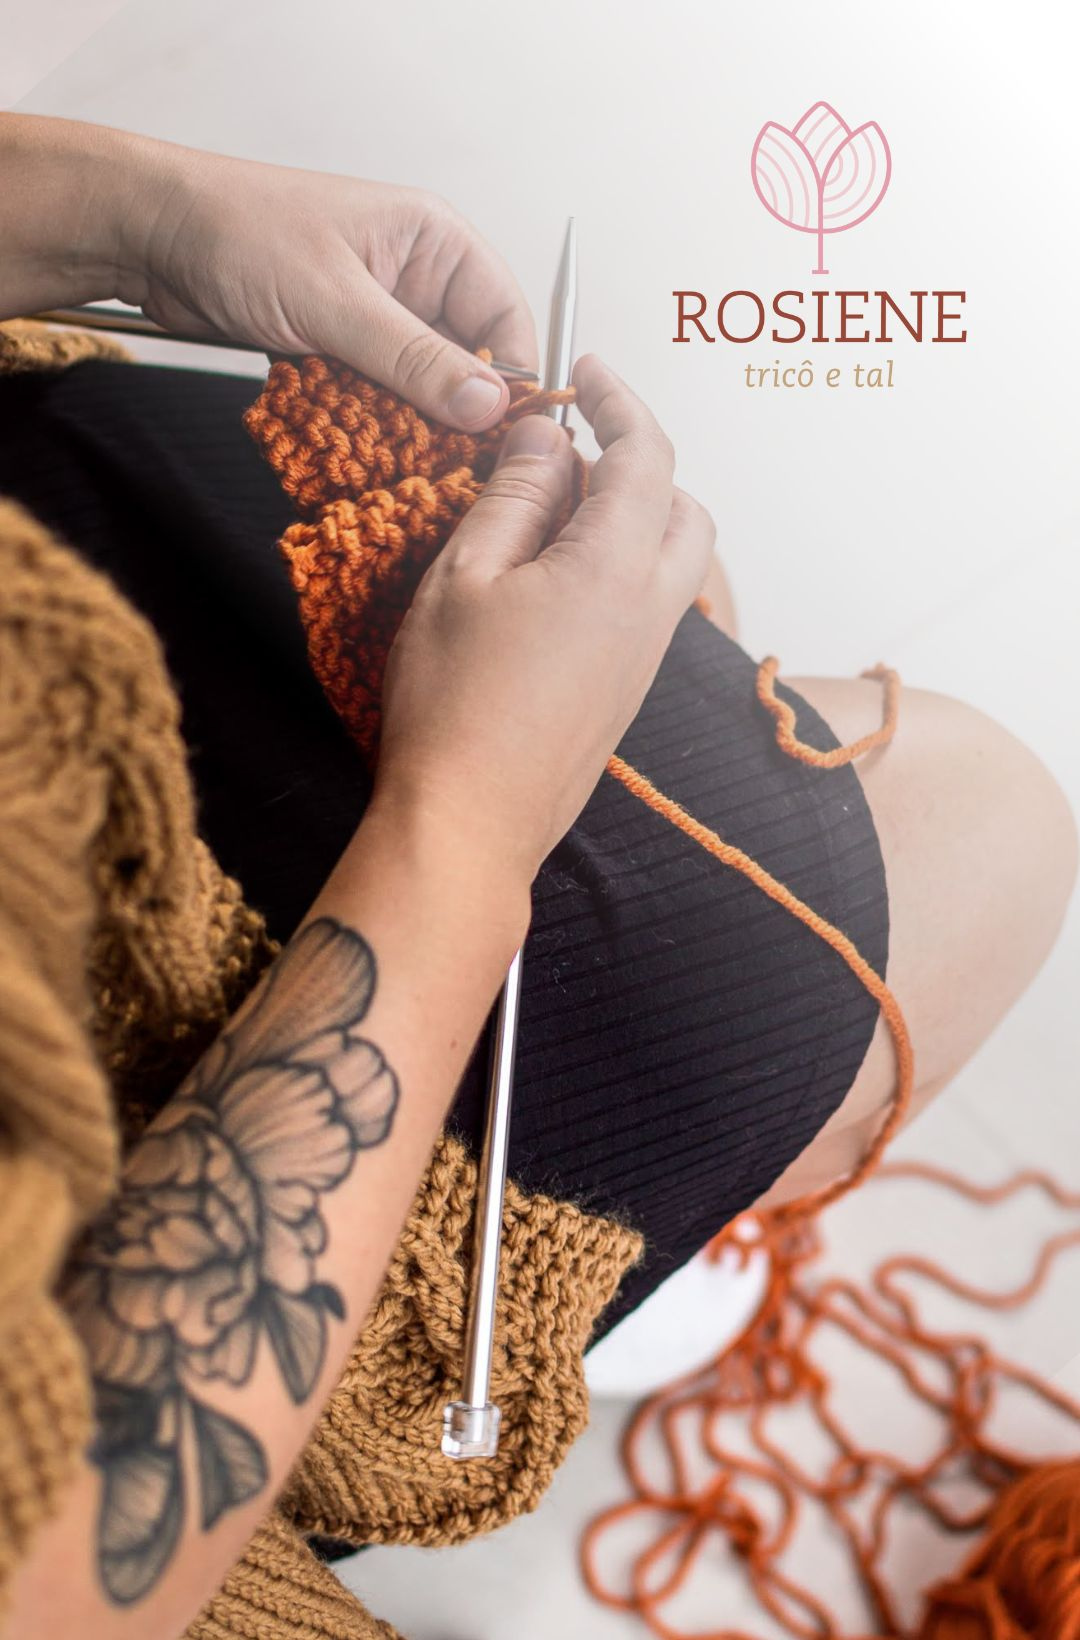
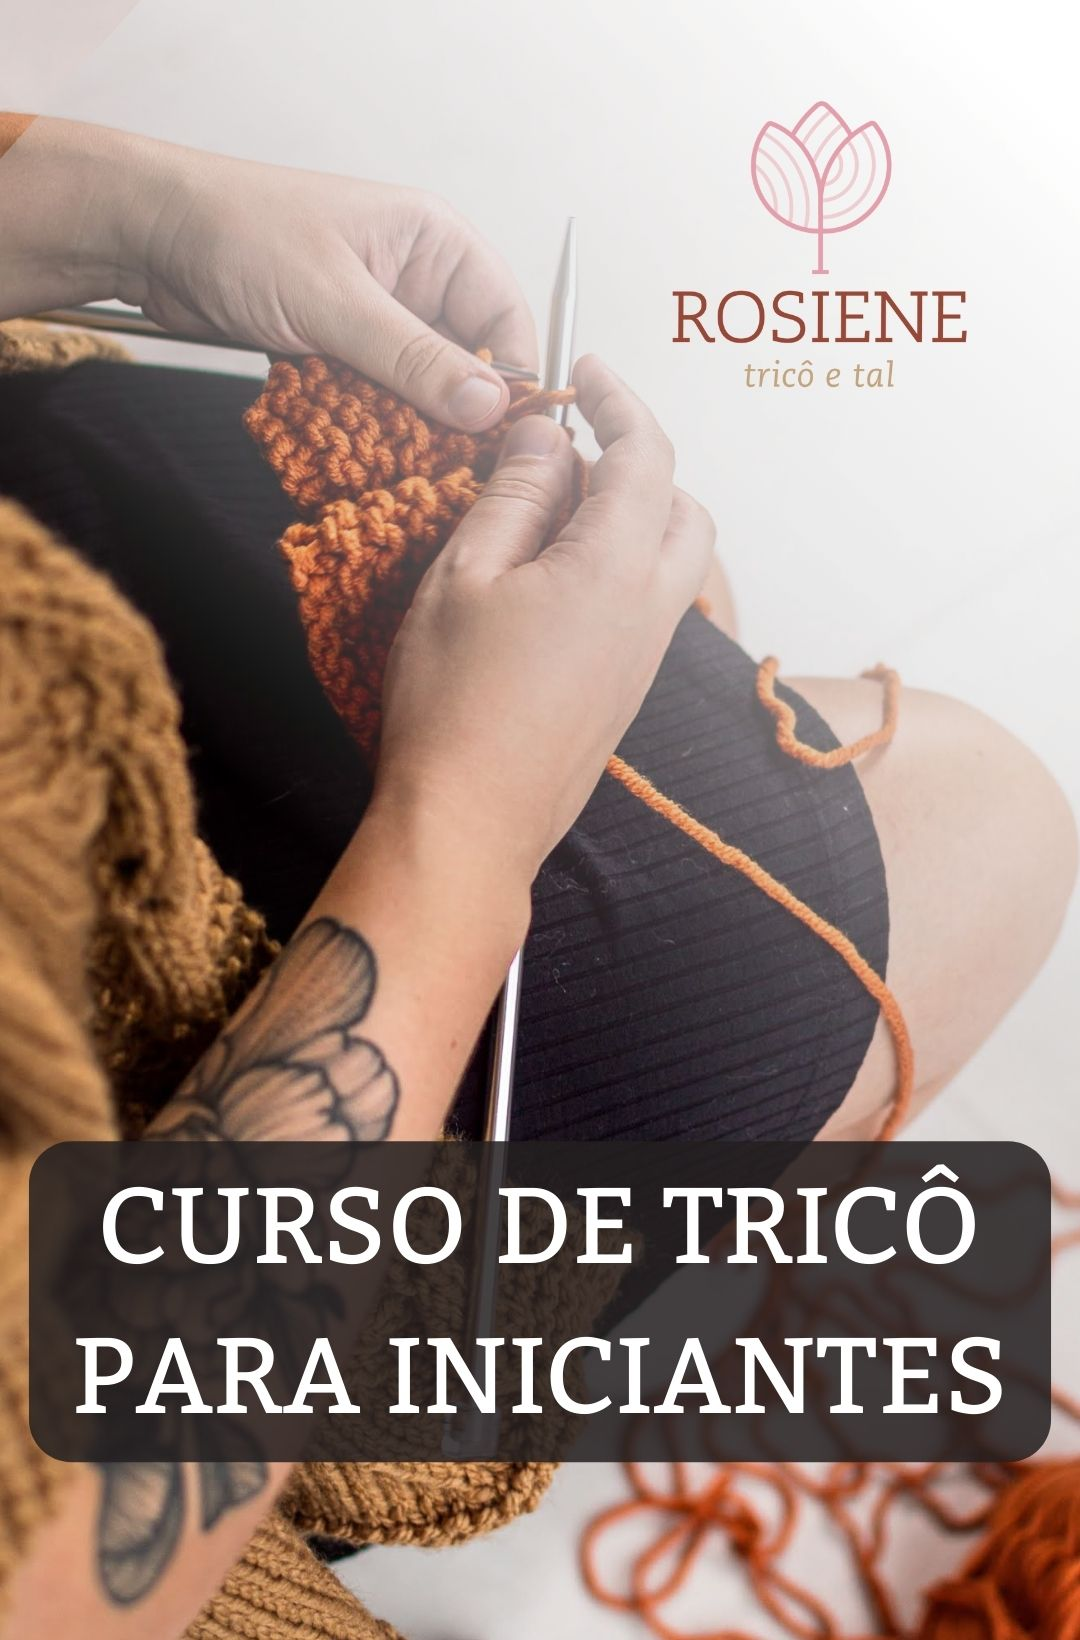
fundo capa

Changed region(s): [[0.0, 0.6841, 0.9778, 0.9018], [0.0, 0.0622, 0.5194, 0.4665], [0.5194, 0.2799, 0.55, 0.311]]

diff --git a/iniciantes.html b/iniciantes.html
@@ -31,25 +31,33 @@ URL:      www.rosiene.com.br
 
     <style>
       .curso-topo {
-        padding-top: 400px;
         text-align: center;
         background: #79a9a6;
       }
-      .curso-topo img {
-        position: absolute;
-        top: 0;
-        left: 0;
-        max-width: 100%;
-      }
       .curso-topo h1{
-        color: #fff;
-        background: #0009;
-        margin: 30px;
-        border-radius: 10px;
-        padding: 6px;
+        display: none;
       }
-      .curso-topo h2{
+      .e-book {
+        padding: 40px;
+      }
+      .e-book h2{
         color: #fff;
+        font-size: 42px;
+      }
+      .e-book ul {
+        padding: 0;
+      }
+      .e-book ul li {
+        font-size: 36px;
+        background: url('https://rosiene.github.io/img/curso/check.png') no-repeat left center;
+        padding: 24px 0 24px 84px;
+        list-style: none;
+        margin: 0;
+        vertical-align: middle;
+      }
+      .e-book h3{
+        font-size: 36px;
+        margin: 30px 0;
       }
       .tricotar {
         background: #a44030;
@@ -62,6 +70,7 @@ URL:      www.rosiene.com.br
         height: 60%;
       }
       .tricotar p{
+        font-size: 24px;
         line-height: 2;
       }
       .aprender {
@@ -70,6 +79,15 @@ URL:      www.rosiene.com.br
       }
       .aprender h1 {
         color: #fff;
+        padding-bottom: 20px;
+      }
+      ul.aprender-lista {
+        font-size: 24px;
+        list-style-type: square;
+        line-height: 1.5;
+      }
+      ul.aprender-lista li{
+        padding: 12px;
       }
       .quem {
         background: #a44030;
@@ -84,7 +102,9 @@ URL:      www.rosiene.com.br
         margin: 30px 0;
       }
       .quem p{
+        font-size: 24px;
         line-height: 2;
+        padding-bottom: 16px;
       }
       .curso-iniciante {
         background: #79a9a6;
@@ -93,6 +113,8 @@ URL:      www.rosiene.com.br
         padding: 40px;
       }
       .curso-iniciante p {
+        font-size: 24px;
+        padding-bottom: 16px;
         color: #fff;
         line-height: 2;
       }
@@ -109,8 +131,10 @@ URL:      www.rosiene.com.br
         width: 100%;
       }
       .chamada-final h1{
+        font-size: 42px;
         color: #fff;
         margin: 0 30px;
+        font-size: 42px;
       }
       .chamada-final h2{
         color: #98bcba;
@@ -122,6 +146,9 @@ URL:      www.rosiene.com.br
         border-radius: 10px;
         color: #fff;
         font-size: 42px;
+      }
+      #Blog1 {
+        display: none;
       }
       </style>
     </head>
@@ -138,8 +165,12 @@ URL:      www.rosiene.com.br
     &lt;div&gt;
   &lt;img src=&quot;https://rosiene.github.io/img/curso/capa_curso_trico.jpg&quot; /&gt;
   &lt;h1&gt;CURSO DE TRICÔ PARA INICIANTES&lt;/h1&gt;
-  &lt;div&gt;
+  &lt;div class=&quot;e-book&quot;&gt;
   &lt;h2&gt;E-book  Completo!&lt;/h2&gt;
+&lt;ul&gt;
+&lt;li&gt; 10 Vídeo Aulas&lt;/li&gt;
+&lt;li&gt; 5 Vídeos Bônus&lt;/li&gt;
+&lt;/ul&gt;
   &lt;h3&gt;R$ 59,90&lt;/h3&gt;
   &lt;script type=&quot;text/javascript&quot;&gt;
   	function importHotmart(){
@@ -199,22 +230,22 @@ URL:      www.rosiene.com.br
               <b:widget-setting name='content'>&lt;div class=&quot;session aprender&quot;&gt;
     &lt;div&gt;
       &lt;h1&gt;O que você vai aprender:&lt;/h1&gt;
-      &lt;ul&gt;
-    &lt;l1&gt;Aula 1: Como Colocar Pontos na Agulha de Tricô&lt;/l1&gt;
-    &lt;l1&gt;Aula 2: Como fazer o Ponto Tricô e Ponto Meia&lt;/l1&gt;
-    &lt;l1&gt;Aula 3: Como Arrematar os Pontos do Tricô&lt;/l1&gt;
-    &lt;l1&gt;Aula 4: Como Fazer Aumentos em Tricô&lt;/l1&gt;
-    &lt;l1&gt;Aula 5: Como Fazer Diminuição em Tricô&lt;/l1&gt;
-    &lt;l1&gt;Aula 6: Como Fazer Laçadas em Tricô&lt;/l1&gt;
-    &lt;l1&gt;Aula 7: Como Fazer Tranças em Tricô&lt;/l1&gt;
-    &lt;l1&gt;Aula 8: Como Ler Gráficos de Tricô&lt;/l1&gt;
-    &lt;l1&gt;Aula 9: Como Fazer Emenda e Esconder Fio&lt;/l1&gt;
-    &lt;l1&gt;Aula 10: Como Seguir Receitas de Tricô&lt;/l1&gt;
-    &lt;l1&gt;Bônus 1: Costura em Tricô&lt;/l1&gt;
-    &lt;l1&gt;Bônus 2: Costura Invisível no Tricô: Grafting&lt;/l1&gt;
-    &lt;l1&gt;Bônus 3: O que é e Como Saber o Ponto Múltiplo no Tricô&lt;/l1&gt;
-    &lt;l1&gt;Bônus 4: Como Mudar o Ponto da Agulha Reta para Circular&lt;/l1&gt;
-    &lt;l1&gt;Bônus 5: Cálculo para Tricô Fácil + Calculadora&lt;/l1&gt;
+      &lt;ul class=&quot;aprender-lista&quot;&gt;
+    &lt;li&gt;&lt;b&gt;Aula 1:&lt;/b&gt; Como Colocar Pontos na Agulha de Tricô&lt;/li&gt;
+    &lt;li&gt;&lt;b&gt;Aula 2:&lt;/b&gt; Como fazer o Ponto Tricô e Ponto Meia&lt;/li&gt;
+    &lt;li&gt;&lt;b&gt;Aula 3:&lt;/b&gt; Como Arrematar os Pontos do Tricô&lt;/li&gt;
+    &lt;li&gt;&lt;b&gt;Aula 4:&lt;/b&gt; Como Fazer Aumentos em Tricô&lt;/li&gt;
+    &lt;li&gt;&lt;b&gt;Aula 5:&lt;/b&gt; Como Fazer Diminuição em Tricô&lt;/li&gt;
+    &lt;li&gt;&lt;b&gt;Aula 6:&lt;/b&gt; Como Fazer Laçadas em Tricô&lt;/li&gt;
+    &lt;li&gt;&lt;b&gt;Aula 7:&lt;/b&gt; Como Fazer Tranças em Tricô&lt;/li&gt;
+    &lt;li&gt;&lt;b&gt;Aula 8:&lt;/b&gt; Como Ler Gráficos de Tricô&lt;/li&gt;
+    &lt;li&gt;&lt;b&gt;Aula 9:&lt;/b&gt; Como Fazer Emenda e Esconder Fio&lt;/li&gt;
+    &lt;li&gt;&lt;b&gt;Aula 10:&lt;/b&gt; Como Seguir Receitas de Tricô&lt;/li&gt;
+    &lt;li&gt;&lt;b&gt;Bônus 1:&lt;/b&gt; Costura em Tricô&lt;/li&gt;
+    &lt;li&gt;&lt;b&gt;Bônus 2:&lt;/b&gt; Costura Invisível no Tricô: Grafting&lt;/li&gt;
+    &lt;li&gt;&lt;b&gt;Bônus 3:&lt;/b&gt; O que é e Como Saber o Ponto Múltiplo no Tricô&lt;/li&gt;
+    &lt;li&gt;&lt;b&gt;Bônus 4:&lt;/b&gt; Como Mudar o Ponto da Agulha Reta para Circular&lt;/li&gt;
+    &lt;li&gt;&lt;b&gt;Bônus 5:&lt;/b&gt; Cálculo para Tricô Fácil + Calculadora&lt;/li&gt;
   &lt;/ul&gt;
     &lt;/div&gt;
   &lt;/div&gt;</b:widget-setting>
@@ -1070,7 +1101,39 @@ URL:      www.rosiene.com.br
         </b:widget>
       </b:section>
 
-        <b:section id='bottom'/>
+        <b:section id='bottom'>
+          <b:widget id='HTML1' locked='false' title='Footer' type='HTML' version='1'>
+            <b:widget-settings>
+              <b:widget-setting name='content'>&lt;footer&gt;
+&lt;img class=&quot;img_logo&quot; src=&quot;https://rosiene.github.io/img/rosiene_logo_branca.png&quot; /&gt;
+
+&lt;br/&gt;
+
+    &lt;a href=&quot;https://www.rosiene.com.br/p/entre-em-contato.html&quot;&gt;Contato&lt;/a&gt; . &lt;a href=&quot;https://www.rosiene.com.br/&quot;&gt;Rosiene - Tricô e Tal&lt;/a&gt; &#169; 2022
+&lt;br/&gt;
+&lt;br/&gt;
+
+    &lt;a href=&quot;https://www.rosiene.com.br/p/newsletter-trico-e-tal.html&quot;&gt;Assine a Newsletter Tricô e Tal&lt;/a&gt;
+
+&lt;br/&gt;
+
+    &lt;a href=&#39;https://www.youtube.com/Rosiene&#39; target=&quot;_blank&quot;&gt;&lt;img class=&quot;ico-footer&quot; src=&quot;https://rosiene.github.io/img/ico/bottom-youtube.svg&quot; alt=&quot;Youtube&quot; /&gt;&lt;/a&gt;
+    &lt;a href=&#39;https://www.instagram.com/rosiene_tricoetal/&#39; target=&quot;_blank&quot;&gt;&lt;img class=&quot;ico-footer&quot; src=&quot;https://rosiene.github.io/img/ico/bottom-instagram.svg&quot; alt=&quot;Instagram&quot; /&gt;&lt;/a&gt;
+    &lt;a href=&#39;https://www.ravelry.com/designers/rosiene&#39; target=&quot;_blank&quot;&gt;&lt;img class=&quot;ico-footer&quot; src=&quot;https://rosiene.github.io/img/ico/bottom-ravelry.svg&quot; alt=&quot;Ravelry&quot; /&gt;&lt;/a&gt;
+    &lt;a href=&#39;https://www.facebook.com/tricoetal&#39; target=&quot;_blank&quot;&gt;&lt;img class=&quot;ico-footer&quot; src=&quot;https://rosiene.github.io/img/ico/bottom-facebook.svg&quot; alt=&quot;Facebook&quot; /&gt;&lt;/a&gt;
+    &lt;a href=&#39;https://br.pinterest.com/tricoetal/&#39; target=&quot;_blank&quot;&gt;&lt;img class=&quot;ico-footer&quot; src=&quot;https://rosiene.github.io/img/ico/bottom-pinterest.svg&quot; alt=&quot;Pinterest&quot; /&gt;&lt;/a&gt;
+  &lt;/footer&gt;</b:widget-setting>
+            </b:widget-settings>
+            <b:includable id='main'>
+  <!-- only display title if it's non-empty -->
+  <div class='widget-content'>
+    <data:content/>
+  </div>
+
+  <b:include name='quickedit'/>
+</b:includable>
+          </b:widget>
+        </b:section>
 
     </div><!-- content -->
 

diff --git a/css/style.css b/css/style.css
@@ -132,6 +132,7 @@ p {
   width: 250px;
   height: 250px;
   border-radius: 250px;
+  border: #fff solid 5px;
 }
 
 #HTML8 .title{
